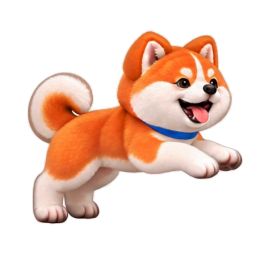
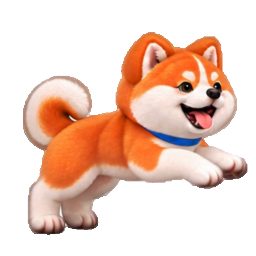
feat: activate Akita Grok v2 running animation

Changed region(s): [[0.0625, 0.0938, 0.9688, 0.9375]]

diff --git a/tests/test_akita_baseline.py b/tests/test_akita_baseline.py
@@ -36,8 +36,13 @@ class AkitaBaselineTests(unittest.TestCase):
             *(f'frames/running/{frame:02}.png' for frame in range(20)),
             'running.png',
         })
+        v2 = json.loads((root / 'docs/artwork/akita/2026-10-grok-v2/delivery.json').read_text())
+        self.assertEqual(set(v2['sha256']), {
+            *(f'frames/running/{frame:02}.png' for frame in range(20)),
+            'running.png',
+        })
         self.assertEqual(actual, {**baseline['sha256'], **changes, **collars['sha256'],
-                                  **continuity['sha256'], **grok['sha256'],
+                                  **continuity['sha256'], **grok['sha256'], **v2['sha256'],
                                   'derived/ready-blink.png': derived['png_sha256']})
         original = root / 'docs/artwork/akita/2026-10-local-motion/running-original.png'
         self.assertEqual(hashlib.sha256(original.read_bytes()).hexdigest(), baseline['sha256']['frames/running/02.png'])

diff --git a/tests/test_animation_rhythm.py b/tests/test_animation_rhythm.py
@@ -85,7 +85,7 @@ class AnimationRhythmTests(unittest.TestCase):
         derived = json.loads((ROOT / 'docs/artwork/akita/2026-10-pack/derived-blink.json').read_text())
         blink = production / 'derived/ready-blink.png'
         self.assertEqual(hashlib.sha256(blink.read_bytes()).hexdigest(), derived['png_sha256'])
-        current = json.loads((ROOT / 'docs/artwork/akita/2026-10-grok-run/delivery.json').read_text())
+        current = json.loads((ROOT / 'docs/artwork/akita/2026-10-grok-v2/delivery.json').read_text())
         self.assertEqual(
             hashlib.sha256((production / 'frames/running/19.png').read_bytes()).hexdigest(),
             current['sha256']['frames/running/19.png'],

diff --git a/docs/animation-assets.md b/docs/animation-assets.md
@@ -18,7 +18,7 @@
 
 开始制作时复制[制作单模板](templates/pet-animation-brief.md)，按生成流程逐项补齐。模板里的空项表示尚未完成；提示词、单张漂亮图片、自动测试通过都不能单独代替完整验收。
 
-当前 Running 为 20 帧、834ms 周期：物理帧 `00`–`19` 按源视频顺序播放，曝光按 `42、42、41ms` 重复。素材来自用户提供的 Grok 处理包；头部稳定、保留部分上下起伏，未插帧。第15、16帧的眨眼保留，毛发纹理的轻微帧间闪动标为已知生成特征。192px 浅色/深色联系图和来源脚本见[本轮制作单](artwork/akita/2026-10-grok-run/brief.md)。Running→Ready 使用现有05落稳、06转体、07接下蹲，各120ms，再接原轻跃与休息循环。旧十姿势640ms版本、旧十六帧稿与整帧换序均保留作历史，不能当作当前播放表。
+当前 Running 为 20 帧、834ms 周期：物理帧 `00`–`19` 按源视频顺序播放，曝光按 `42、42、41ms` 重复。当前生产素材是用户提供的 `akita-run-grok-v2.zip` 原尺寸 256×256 RGBA 帧；头部稳定、保留部分上下起伏，未插帧。第15、16帧的眨眼保留，毛发纹理的轻微帧间闪动标为已知生成特征。192px 浅色/深色联系图和来源记录见[本轮 v2 制作单](artwork/akita/2026-10-grok-v2/brief.md)；此前的 `2026-10-grok-run` 仅作为历史版本保留。Running→Ready 使用现有05落稳、06转体、07接下蹲，各120ms，再接原轻跃与休息循环。旧十姿势640ms版本、旧十六帧稿与整帧换序均保留作历史，不能当作当前播放表。
 
 2026-10-03补充复核：Grok循环已通过透明边缘和192px明/暗背景离线检查；设备原速、Running→Ready任意相位中断及自然步态仍需设备观察。工具PASS只证明文件、时序和标记采样，不替代视觉验收或3D多视图模型资料。
 

diff --git a/docs/animation-motion.md b/docs/animation-motion.md
@@ -35,7 +35,7 @@ N = 一个循环内的逻辑曝光数
 
 以上公式用于有限曝光和循环段。动作结束后的无限保持另写 `final_hold = until_state_change`，不填一个虚构的大时长；离线工具为展示保持而使用的有限停留时间，不是运行时的状态寿命。
 
-当前生产跑步使用[2026-10 Grok 循环](artwork/akita/2026-10-grok-run/brief.md)的20张源视频帧，按 `42、42、41ms` 重复曝光，一轮834ms。它是经抠图和头部稳定的透明帧交付，不是插帧或混合帧。第15、16帧保留自然眨眼；毛发纹理轻微闪动记录为生成素材的已知限制。下文关于8张关键图、补帧和640ms的段落属于历史版本和时长计算示例，不再描述当前生产播放表。若调整为640ms，必须重新记录每帧曝光、设备观察和循环接缝，不能只把当前帧时长统一缩短。
+当前生产跑步使用[2026-10 Grok v2 循环](artwork/akita/2026-10-grok-v2/brief.md)的20张原尺寸透明帧，按 `42、42、41ms` 重复曝光，一轮834ms。它是经抠图和头部稳定的透明帧交付，不是插帧或混合帧。第15、16帧保留自然眨眼；毛发纹理轻微闪动记录为生成素材的已知限制。下文关于8张关键图、补帧和640ms的段落属于历史版本和时长计算示例，不再描述当前生产播放表。若调整为640ms，必须重新记录每帧曝光、设备观察和循环接缝，不能只把当前帧时长统一缩短。
 
 优先在轨迹弯折、关节转向、脚掌接触/离地、遮挡交换或原速明显跳跃处补帧。接触和蓄力的停顿可以有不同曝光时长，不能为了“等帧率”抹掉动作节奏。把远距离关键姿势直接延长播放，只会延长停顿。
 

diff --git a/docs/animation-gait.md b/docs/animation-gait.md
@@ -4,7 +4,7 @@
 
 ## 当前版本：保留关键时刻，局部补齐伸展与回收
 
-当前生产顺序为物理帧00–19，曝光 `42、42、41ms` 重复，一轮834ms；来源和处理证据见[Grok跑步循环制作单](artwork/akita/2026-10-grok-run/brief.md)。这组帧是生成视频的透明化、头部稳定和统一裁切结果，四脚可辨认但没有经过犬类接触力学认证；第15、16帧的眨眼和轻微毛发纹理闪动按视觉复核记录保留。以下旧版八关键图、两张局部补帧和640ms记录均为历史对照，不应套用到新帧的脚掌标记或时序。
+当前生产顺序为物理帧00–19，曝光 `42、42、41ms` 重复，一轮834ms；来源和处理证据见[Grok v2 跑步制作单](artwork/akita/2026-10-grok-v2/brief.md)。这组帧是生成视频的透明化、头部稳定和统一裁切结果，四脚可辨认但没有经过犬类接触力学认证；第15、16帧的眨眼和轻微毛发纹理闪动按视觉复核记录保留。以下旧版八关键图、两张局部补帧和640ms记录均为历史对照，不应套用到新帧的脚掌标记或时序。
 
 十六帧稿因动作生硬和形体漂移已撤回；第二份录屏确认交换02/03会破坏后脚顺序，旧记录仍保留作历史。审计现在读取 `current-running.json` 的20张物理帧标记，按新播放顺序和42/41ms曝光输出；`accepted-running.json` 保留旧基线，PASS 仍只检查标记采样。
 
